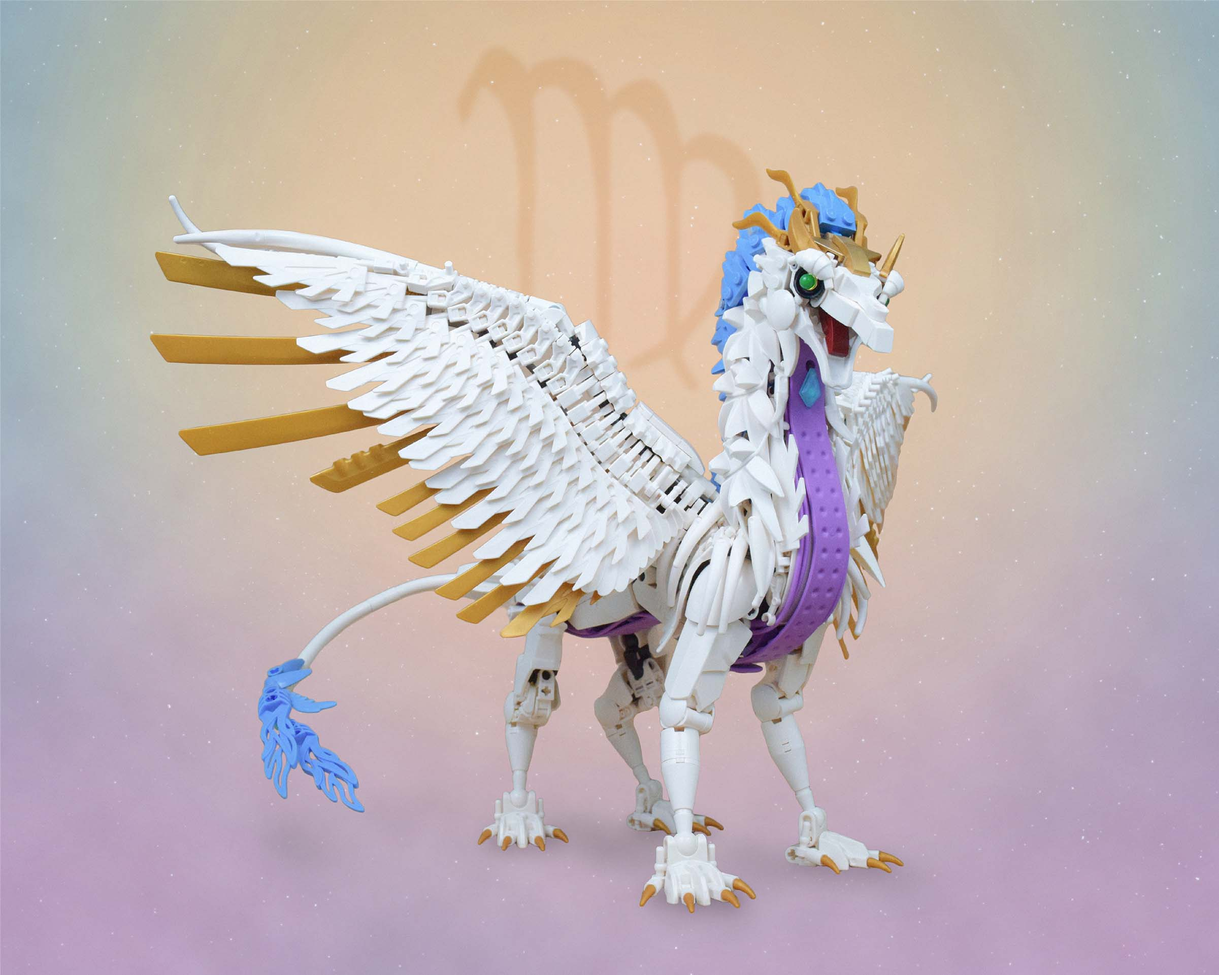
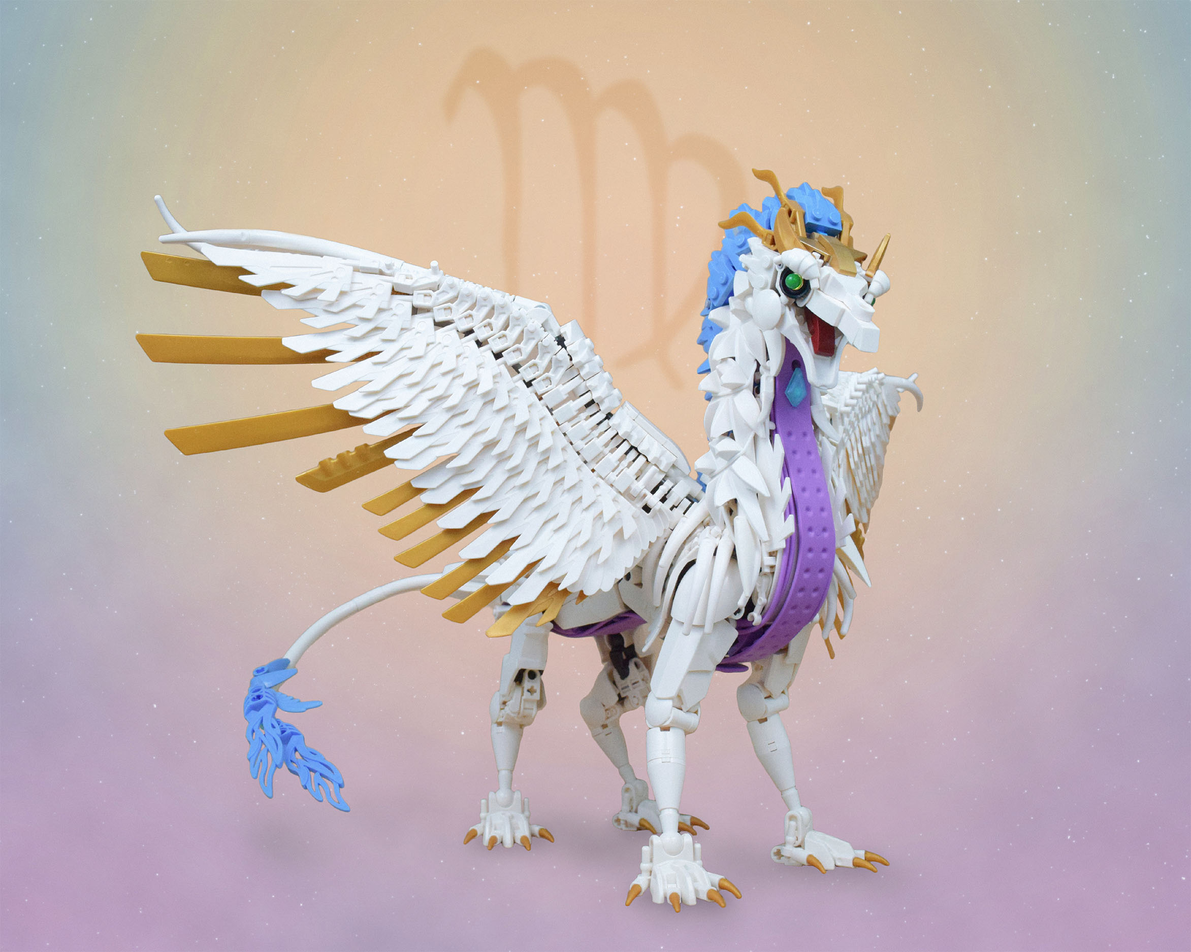
Virgo update
2024 mocs page
redirect images on grid to individual moc image folders rather than moc thumbnail folder

add virgo dragon article

Changed region(s): [[0.0934, 0.1546, 0.7783, 0.9584]]

diff --git a/mocs/2024/moc_posts/virgo_dragon/virgo_dragon.html b/mocs/2024/moc_posts/virgo_dragon/virgo_dragon.html
@@ -1,0 +1,70 @@
+<!--ARTICLE-->
+<!--[Virgo Dragon]-->
+<!DOCTYPE html>
+<html lang="en">
+<head>
+    <meta charset="UTF-8">
+    <meta name="viewport" content="width=device-width, initial-scale=1.0">
+    <title>Woomy World</title>
+    <!--UPDATE_AND_ADD_LINKS_HERE-->
+    <link rel="stylesheet" href="../../../../main_style.css">
+    <link rel="stylesheet" href="../../../../text_sheet_article.css">
+    <style>
+
+
+    </style>
+</head>
+
+<body>
+    <!--Body-Header-->
+    <header>
+        <h1>Woomy World</h1>
+    </header>
+
+    <!--Body-Navbar-->
+    <nav>
+    <!--UPDATE_AND_ADD_LINKS_HERE-->
+        <a href="../../../../index.html">Home</a>
+        <a href="../../../../mocs/mocs.html">MOCs</a>
+        <a href="../../../../about/about.html">About</a>
+    </nav>
+    
+    <div class="content">
+        <div class="col">
+            <div class="block">
+                <div class="text_title">
+                    <!--TITLE HERE-->
+                    <p> <b>Virgo Dragon</b> </p>
+                </div>
+
+                <img src="images/virgo_dragon.jpg" alt="virgo_dragon">
+                <!--START WRITING STUFF HERE-->
+                <div class="text_body">
+                    <p>After building the Libra Dragon back in 2022, I was approached with joining a Zodiac themed collab. The Virgo Dragon had been on my mind when collecting inspo for Libra Dragon, so I took this collab as an opportunity to build it. Of course, life happens, and although this build was originally completed in early 2023, it is only being posted now along with the full collab, which you can check out <a href="link" target="_blank">here</a>.</p>
+                    <p>Once again, I based my build loosely on Zodiac dragon artwork, and a lot of the Virgo Dragon artwork featured feathered dragons. I decided to use white as the dominant color with the feathered texturing limited to the mane and wings. The texture then transitions to smoother CCBS and system parts for the rest of the body. Notably, the dragon has a bit of a muscular look at the transition point in the shoulders, as <a href="https://www.bricklink.com/v2/catalog/catalogitem.page?P=40379#T=S&C=1&O={%22color%22:%221%22,%22iconly%22:0}" target="_blank">dino tails</a> and <a href="https://www.bricklink.com/v2/catalog/catalogitem.page?P=20313#T=S&C=1&O={%22color%22:%221%22,%22iconly%22:0}" target="_blank">creature wings</a> wrap around the <a href="" target="_blank">CCBS shoulder shell</a>.</p>
+                </div>
+                <img src="images/virgo_side.jpg" alt="virgo_dragon_side">
+                <div class="text_body">
+                    <p>I decided to go with the cooler colors of medium blue and medium lavender as accents. At the time, the <a href="https://www.bricklink.com/v2/catalog/catalogitem.page?P=27261&name=Plate,%20Modified%201%20x%202%20with%203%20Claws%20/%20Rock%20Fingers&category=%5BPlate,%20Modified%5D#T=S&C=42&O={%22color%22:%2242%22,%22iconly%22:0}" target="_blank">rock finger slope</a> had just been released in medium blue. In my opinion, I see this part as the System successor to the <a href="https://www.bricklink.com/v2/catalog/catalogitem.page?P=11334&idColor=85#T=S&C=85&O={%22color%22:85,%22iconly%22:0}" target="_blank">Chima fur add-on</a>, so I stocked up on quite a few. These were also paired up with <a href="https://www.bricklink.com/v2/catalog/catalogitem.page?P=x346&name=Bionicle%201%20x%203%20Tooth%20with%20Axle%20Hole%20(Bohrok%20Eye)&category=%5BBIONICLE%5D#T=S&C=42&O={%22color%22:%2242%22,%22iconly%22:0}" target="_blank">Bohrok eyes</a> to complete the fur texture. The end of the tail also features some medium blue. The rock finger slopes were too small and rigid, but luckily, <a href="https://www.bricklink.com/v2/catalog/catalogitem.page?P=32558&idColor=5#T=S&C=42&O={%22color%22:%2242%22,%22iconly%22:0}" target="_blank">Tahu's sword</a> was produced in medium blue and completed the feathery, wavy look. I further paired this up with <a href="https://www.bricklink.com/v2/catalog/catalogitem.page?P=69949&idColor=42#T=S&C=42&O={%22color%22:42,%22iconly%22:0}" target="_blank">Road Runner's tail</a> to give different lenths to the tail feathers.</p>
+                    <p>Medium lavender was used for the underbody. The technique I used for Karashishi actually originated from this MOC, where I used a combination of <a href="https://www.bricklink.com/v2/catalog/catalogitem.page?P=66821#T=S&C=157&O={%22color%22:%22157%22,%22iconly%22:0}" target="_blank">DOTS bracelets</a> and <a href="https://www.bricklink.com/v2/catalog/catalogitem.page?P=27965&name=Hose,%20Flexible%2022L%20with%202%20Connector%20Ends%20(Zipline)&category=%5BHose%5D#T=S&C=157&O={%22color%22:%22157%22,%22iconly%22:0}" target="_blank">ziplines</a>. The ziplines provide an extra bit of shaping such that the underbody doesn't appear as a single line.</p>
+                    <p>For a more regal look, I used gold for some of the finer details. The head is adorned with gold scaling and horns, and the wings have an extra layer for some gold feathering. The Ninjago theme has released swords of various sizes over the years, and a combination of <a href="https://www.bricklink.com/v2/catalog/catalogitem.page?P=98137#T=S&O={%22iconly%22:0}" target="_blank"></a>, <a href="https://www.bricklink.com/v2/catalog/catalogitem.page?P=35633&idColor=115#T=S&C=115&O={%22color%22:115,%22iconly%22:0}" target="_blank"></a>, and <a href="https://www.bricklink.com/v2/catalog/catalogitem.page?P=98135#T=S&C=115&O={%22color%22:%22115%22,%22iconly%22:0}" target="_blank"></a> allowed shaping that complemented the shaping of the white feathers.</p>
+                    <p>Lastly, I want to go to back to the head, as it shares similar design motifs to Libra Dragon. Notably, the eyes are the same design, and the gold horns are shared between both dragons. However, compared to the short snout of the Libra Dragon, the Virgo Dragon has more of a beak design, with tapering provided by the <a href="https://www.bricklink.com/v2/catalog/catalogitem.page?P=30362&idColor=1#T=S&C=1&O={%22color%22:1,%22iconly%22:0}" target="_blank">astromech leg</a>.</p>
+                    <p>It's been difficult to not just jump the gun and post this MOC, but regardless, I'm happy it's finally published! I've had it with me at several conventions, and it was always funny to get messages wondering what it was. At the moment, I don't have any other Zodiac dragons lined up, but I might revisit the concept and make another one in the future.</p>
+                </div>     
+                <img src="images/virgo_face.jpg" alt="virgo_dragon_face"> 
+
+    </div>
+
+    <footer class="site-footer">
+      <div class="social_icons">
+        <!--UPDATE_FILE_PATHS_HERE-->
+        <a href="https://www.instagram.com/woomy_world" target="_blank"><img src="../../../../images/insta_white.png" alt="Instagram"></a>
+        <a href="https://www.flickr.com/photos/woomyworld" target="_blank"><img src="../../../../images/flickr_white.png" alt="flickr"></a>
+        </div>
+
+
+    </footer>
+
+
+</body>
+</html>

diff --git a/mocs/2024/mocs_2024.html b/mocs/2024/mocs_2024.html
@@ -33,7 +33,7 @@
         <!-- Box 1 -->
             <div class="box">
                 <a href="moc_posts/tempura_dragon/tempura_dragon.html">
-                    <img src="moc_thumbnails/tempura_dragon_main.jpg" alt="#">
+                    <img src="moc_posts/tempura_dragon/images/tempura_dragon_main.jpg" alt="#">
                     <div class="text">Tempura Dragon</div>
                 </a>
             </div>
@@ -41,12 +41,21 @@
         <!-- Box 2 -->
             <div class="box">
                 <a href="moc_posts/karashishi/karashishi.html">
-                    <img src="moc_thumbnails/karashishi_main.jpg" alt="#">
+                    <img src="moc_posts/karashishi/images/karashishi_main.jpg" alt="#">
                     <div class="text">Karashishi</div>
                 </a>
             </div>
 
         <!-- Box 3 -->
+            <div class="box">
+                <!-- <a href="moc_posts/virgo_dragon/virgo_dragon.html"> -->
+                <a href="#">
+                    <img src="moc_posts/virgo_dragon/images/virgo_dragon.jpg" alt="#">
+                    <div class="text">Virgo Dragon</div>
+                </a>
+            </div>
+
+        <!-- Box 4 -->
             <div class="box">
                 <a href="#">
                     <img src="../placeholder.jpg" alt="#">
